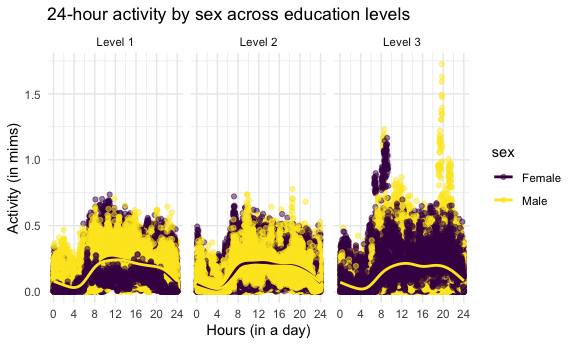
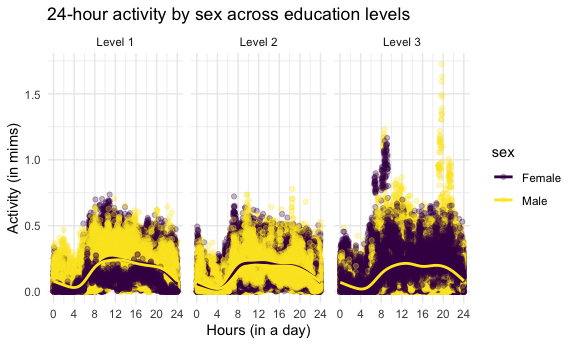
fixed my age distribution by sex across education levels plot for problem 3

diff --git a/p8105_hw3_dmh2228.md b/p8105_hw3_dmh2228.md
@@ -302,16 +302,20 @@ sex_education_table
     ## 6 Male   Level 3   80640
 
 ``` r
-sex_education_plot =
-  ggplot(final_nhanes_data, aes(x = education, fill = sex)) +     
-  geom_bar(position = position_dodge(), alpha = 0.75) +
+sex_education_age_plot =
+  ggplot(final_nhanes_data, aes(x = age, fill = sex)) +     
+  geom_density(alpha = .5, adjust = .5) +
   labs(
-    title = "Education level by sex",
-    x = "Levels of education",
-    y = "Number of participants"
+    title = "Age distribution by sex across education levels",
+    x = "Age (in years) of participants",
+      y = "Density of participants"
+  ) +
+  facet_grid(. ~ education) +
+  scale_x_continuous(
+    breaks = c(10, 20, 30, 40, 50, 60, 70, 80)
   )
 
-sex_education_plot
+sex_education_age_plot
 ```
 
 <img src="p8105_hw3_dmh2228_files/figure-gfm/unnamed-chunk-14-1.png" width="90%" />
@@ -367,7 +371,7 @@ nhanes_24_hour_data =
 
 nhanes_24_hour_plot =
   ggplot(nhanes_24_hour_data, aes(x = hour, y = mims_by_hour, color = sex)) +
-  geom_point(alpha = .5) +
+  geom_point(alpha = .3) +
   geom_smooth(se = FALSE) +
   facet_grid(. ~ education) +
   labs(    
@@ -378,6 +382,7 @@ nhanes_24_hour_plot =
   scale_x_continuous(
     breaks = c(0, 4, 8, 12, 16, 20, 24)
     )
+
 nhanes_24_hour_plot
 ```
 
